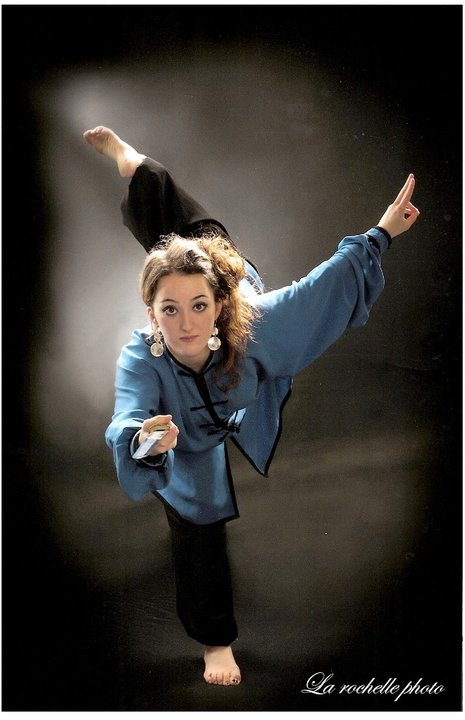
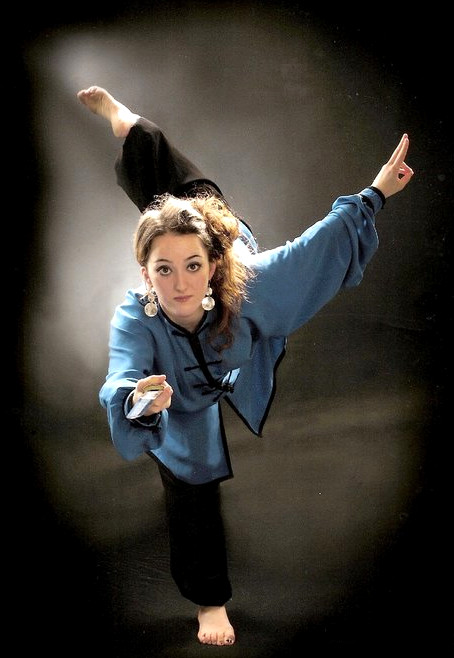
content: change laoshi photo cover

Changed region(s): [[0.0, 0.0, 1.0, 1.0]]

diff --git a/src/content/teacher/laoshi/index.md b/src/content/teacher/laoshi/index.md
@@ -2,7 +2,7 @@
 first: Laoshi
 last: Shaman
 rank: Institutrice
-cover: ./portrait.jpg
+cover: ./photo4.jpg
 avatar: ./avatar.jpg
 diploma: ./diploma.jpg
 palmares: ./palmares.jpg
